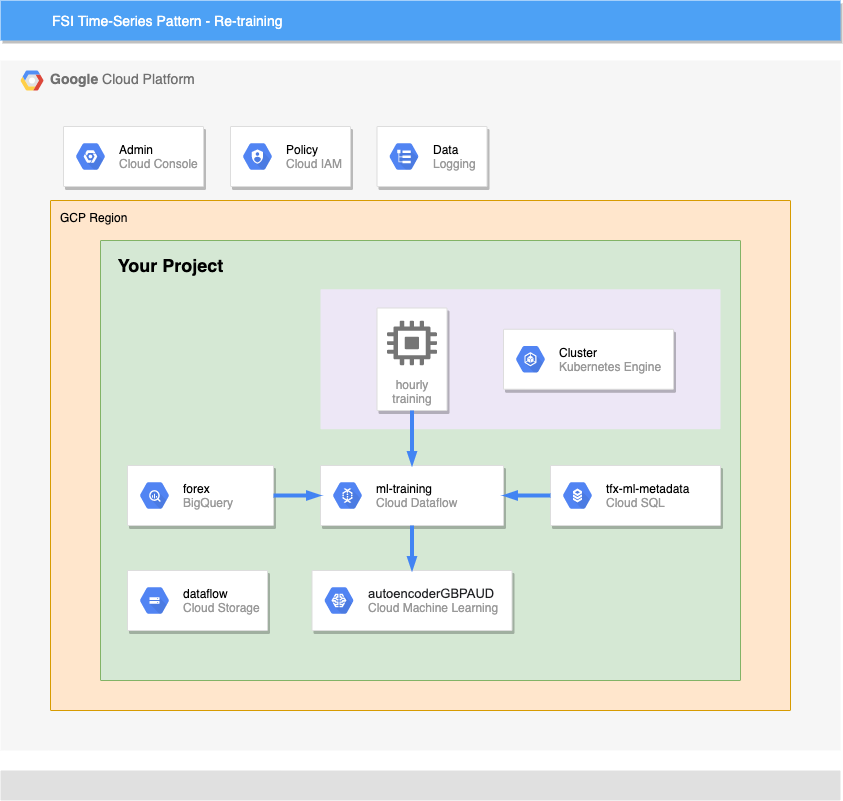
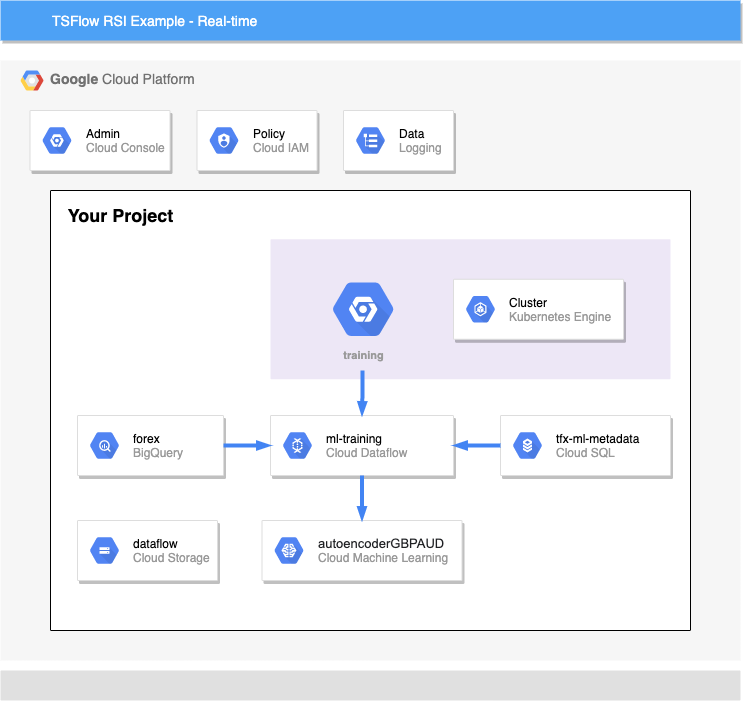
Updated README and added diagrams.

diff --git a/README.md b/README.md
@@ -1,10 +1,10 @@
 # TSFlow RSI Example
 
-This project is an example of how to detect anomalies in financial technical indicators by modeling their expected distribution, and thus inform when the Relative Strength Indicator (RSI) is unreliable. RSI is a popular indicator for traders of financial assets, and it can be useful to understand when it is reliable or not. This is achieved using realistic foreign exchange market data and leverages Google Cloud Platform and the TSFlow library. 
+This project is an example of how to detect anomalies in financial, technical indicators by modeling their expected distribution and thus inform when the Relative Strength Indicator (RSI) is unreliable. RSI is a popular indicator for traders of financial assets, and it can be helpful to understand when it is reliable or not. This is achieved using realistic foreign exchange market data and leverages Google Cloud Platform and the TSFlow library. 
 
-The TSFlow library is a fast, flexible library for processing time series data -- particularly for financial market data due to its large volume. Its ability to perform the data engineering and generate useful metrics in real-time significantly reduces the time and effort to build machine learning models and solve problems in the finance domain.
+The TSFlow library is a fast, flexible library for processing time-series data -- particularly for financial market data due to its large volume. Its ability to perform data engineering and generate useful metrics in real-time significantly reduces the time and effort to build machine learning models and solve problems in the finance domain.
 
-This example uses GCP infrastructure including Dataflow, Pub/Sub, BigQuery, Kubernetes Engine, and AI Platform.
+This example uses GCP infrastructure, including Dataflow, Pub/Sub, BigQuery, Kubernetes Engine, and AI Platform.
 
 ## Quickstart
 
@@ -30,7 +30,7 @@ The rule of thumb regarding RSI is:
 When RSI for an asset is less than 30, traders should buy this asset as the price is expected to increase in the near future.
 When RSI for an asset is greater than 70, traders should sell this asset as the price is expected to decrease in the near future.
 
-As this is a rule of thumb, this strategy cannot be trusted to work favorably at all times. Therefore in these instances (i.e. RSI > 70 or RSI < 30), it would be useful to know if RSI is a reliable indicator to inform a trade or not.
+As this is a rule of thumb, this strategy cannot be trusted to work favourably at all times. Therefore in these instances (i.e. RSI > 70 or RSI < 30), it would be useful to know if RSI is a reliable indicator to inform a trade or not.
 
 We propose, for a given asset, that RSI is a reliable indicator when metrics describing the same asset (e.g. log returns) are behaving as they usually do when RSI > 70 or RSI < 30. And therefore, RSI is unreliable to inform a trade when these metrics are behaving anomalously.
 
@@ -59,9 +59,15 @@ This repo is organised into folders containing logical functions of the example.
 
 ## Components 
 
+This example can be thought of in two distinct, logical functions. One for real-time ingestion of prices and determination of RSI presence, and another for the re-training of the model to improve prediction.
+
+The logical diagram for the real-time flow through the GCP components is below.
+
 ![Real-time](docs/TSFlow-RSI-Example-Real-time.png)
 
-![Re-training](docs/FSI Time-Series Pattern-Re-training.png)
+The logical re-training flow is in the following diagram.
+
+![Re-training](docs/TSFlow-RSI-Example-Re-training.png)
 
 ### Storage Components
 * Three PubSub Topics: prices, metrics, and reconerr
